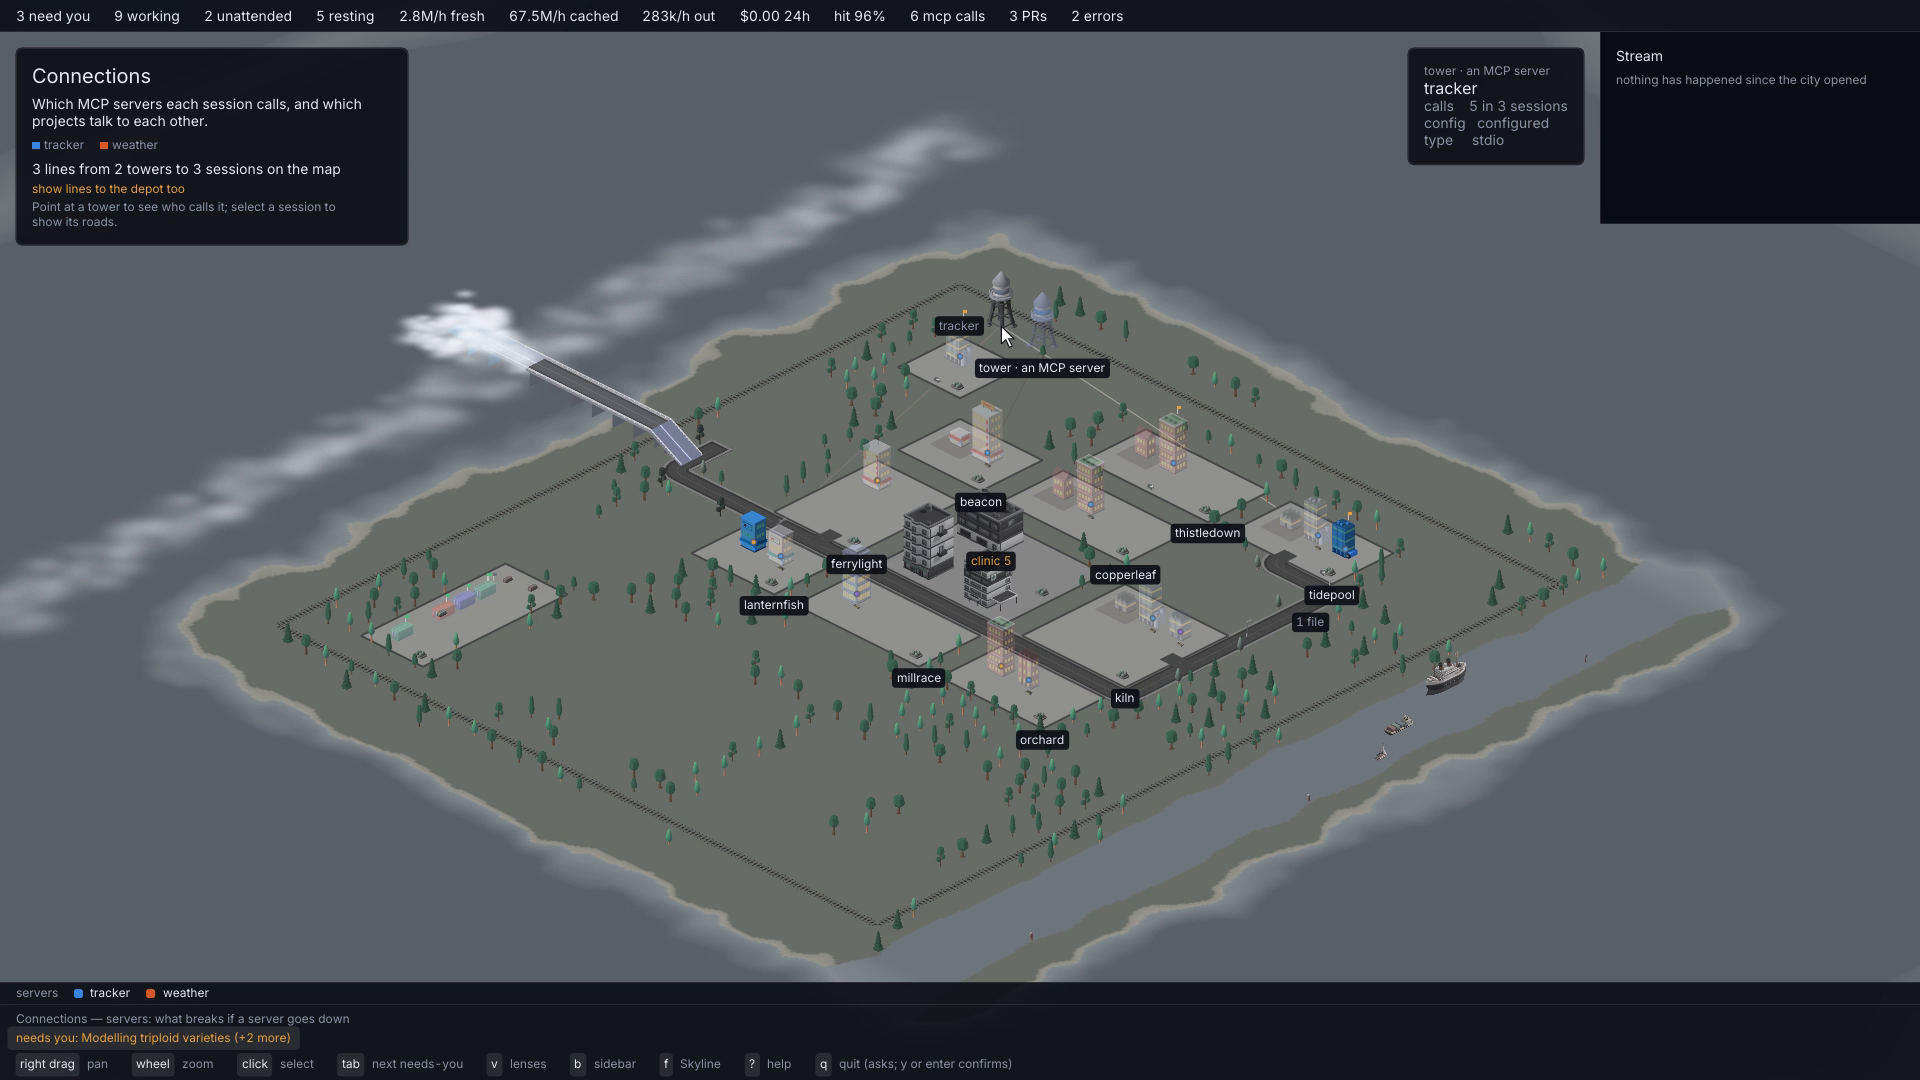
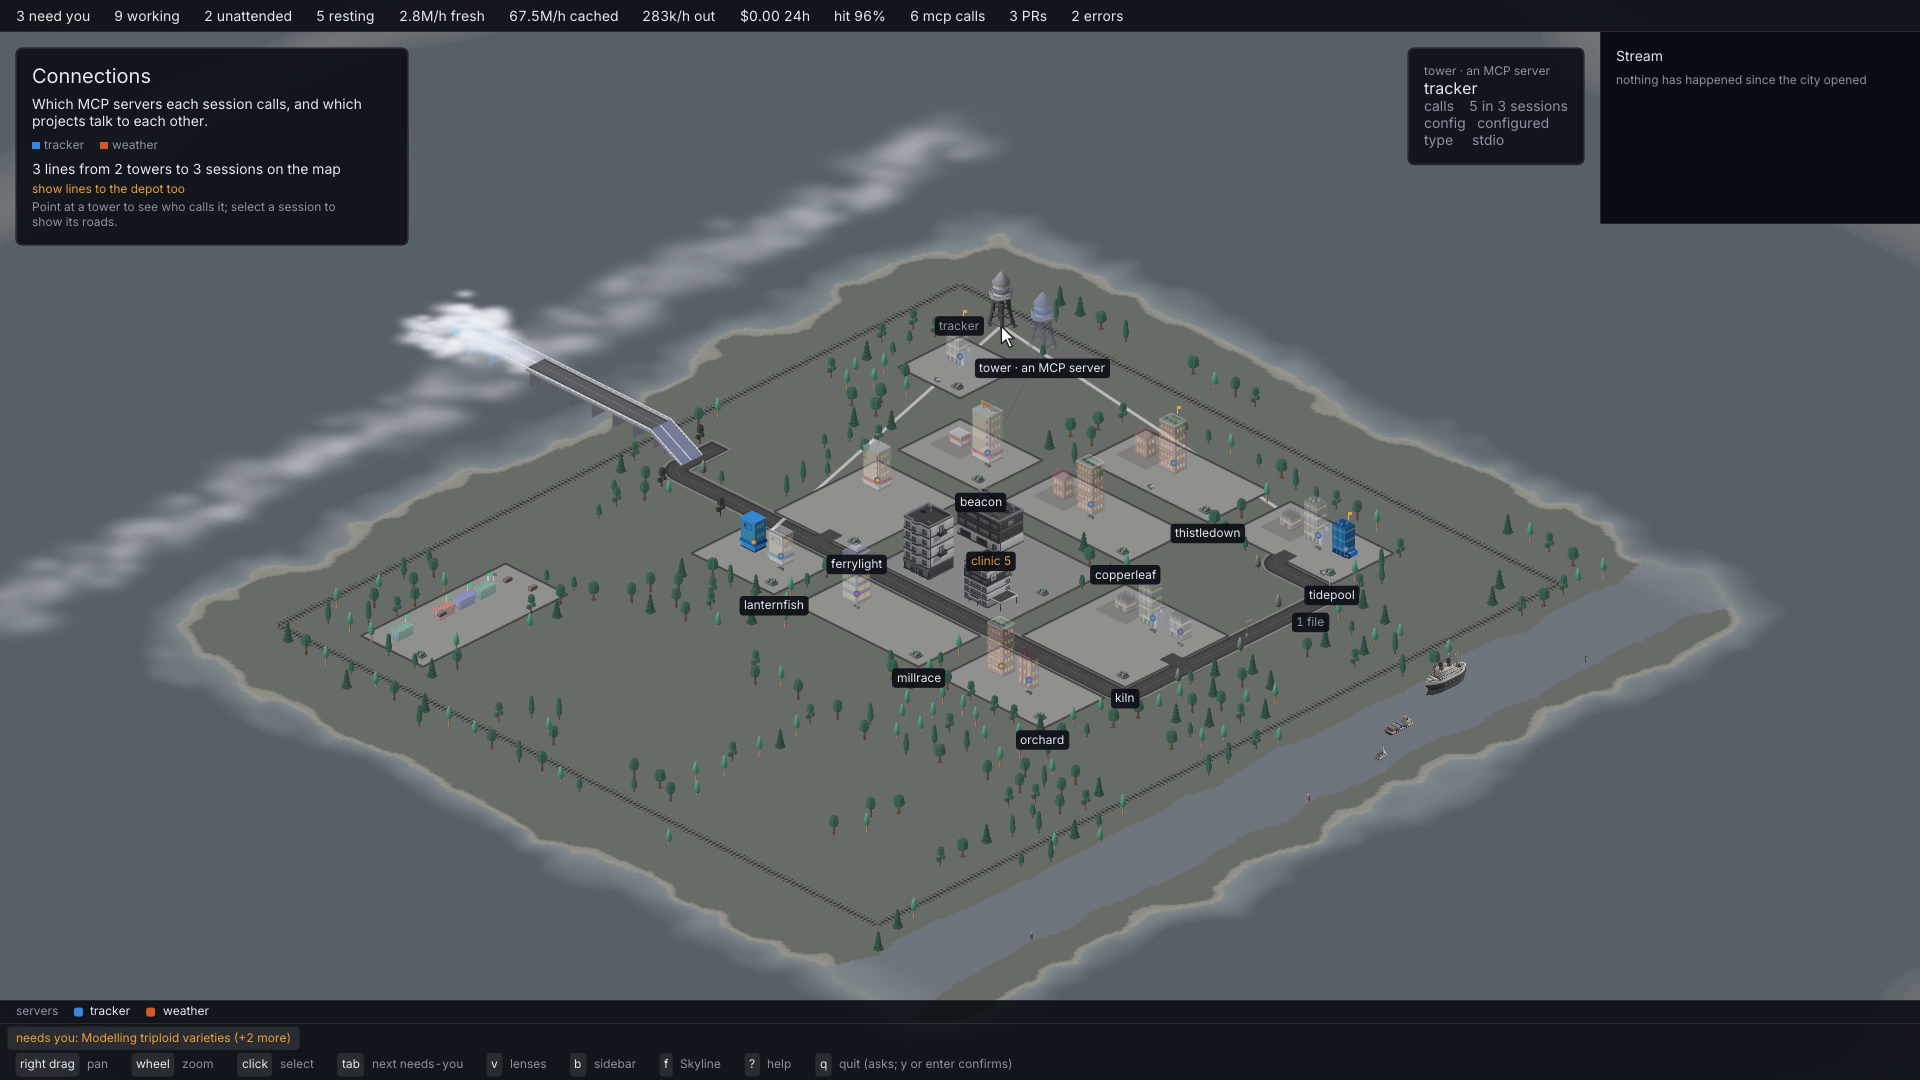
Item 347: a lit beam reads clearly at the fit zoom
Aria, on the frames: "Pass words, brighten lines". The pointed-at
tower's lines were too thin and faint to pick out from the faded ones.
A lit beam is now drawn over in an opaque white four world units wide,
never under three pixels on screen however far out the camera is; the
faded beams are as they were. beamLook returns the stroke, and
TestBeamLook pins it. The two frames are refilmed with it.

Claude-Session: https://claude.ai/code/session_01Nkqib3SnApLo9YagmfTzGy

Changed region(s): [[0.0, 0.8861, 1.0, 0.9472]]

diff --git a/pkg/render/beamlook_test.go b/pkg/render/beamlook_test.go
@@ -29,22 +29,23 @@ func TestBeamLook(t *testing.T) {
 	base := color.NRGBA{0x10, 0x20, 0x30, 0xff}
 	alpha := float64(0xff) * recededAlpha
 	faded := color.NRGBA{0x10, 0x20, 0x30, uint8(alpha)}
+	none := beamStroke{}
 
 	t.Run("when the highlight is up on a tower", func(t *testing.T) {
 		gc.scene.SetHover(city.Hit{Tower: files.Tower})
 		lit := gc.scene.Highlight()
 		require.True(t, lit.Active)
 
-		t.Run("its beam should draw in the highlight colour", func(t *testing.T) {
-			col, highlighted := beamLook(lit, city.Hit{}, files, base)
+		t.Run("its beam should keep its colour and draw the lit line over it", func(t *testing.T) {
+			col, stroke := beamLook(lit, city.Hit{}, files, base)
 			assert.Equal(t, base, col)
-			assert.True(t, highlighted)
+			assert.Equal(t, litStroke, stroke)
 		})
 
-		t.Run("another tower's beam should draw at the faded alpha", func(t *testing.T) {
-			col, highlighted := beamLook(lit, city.Hit{}, search, base)
+		t.Run("another tower's beam should draw at the faded alpha, with no line over it", func(t *testing.T) {
+			col, stroke := beamLook(lit, city.Hit{}, search, base)
 			assert.Equal(t, faded, col)
-			assert.False(t, highlighted)
+			assert.Equal(t, none, stroke)
 		})
 	})
 
@@ -53,16 +54,16 @@ func TestBeamLook(t *testing.T) {
 		lit := gc.scene.Highlight()
 		require.False(t, lit.Active)
 
-		t.Run("that beam should draw in the highlight colour", func(t *testing.T) {
-			col, highlighted := beamLook(lit, city.Hit{Beam: &files}, files, base)
+		t.Run("that beam should draw the lit line over it", func(t *testing.T) {
+			col, stroke := beamLook(lit, city.Hit{Beam: &files}, files, base)
 			assert.Equal(t, base, col)
-			assert.True(t, highlighted)
+			assert.Equal(t, litStroke, stroke)
 		})
 
 		t.Run("the other beams should keep their colour", func(t *testing.T) {
-			col, highlighted := beamLook(lit, city.Hit{Beam: &files}, search, base)
+			col, stroke := beamLook(lit, city.Hit{Beam: &files}, search, base)
 			assert.Equal(t, base, col)
-			assert.False(t, highlighted)
+			assert.Equal(t, none, stroke)
 		})
 	})
 
@@ -72,9 +73,25 @@ func TestBeamLook(t *testing.T) {
 		require.True(t, lit.RecedesGround())
 
 		t.Run("no beam should be faded here, since the fader fades everything at once", func(t *testing.T) {
-			col, highlighted := beamLook(lit, city.Hit{}, search, base)
+			col, stroke := beamLook(lit, city.Hit{}, search, base)
 			assert.Equal(t, base, col)
-			assert.False(t, highlighted)
+			assert.Equal(t, none, stroke)
+		})
+	})
+
+	// Aria, on the first frame: the lit lines were too thin and faint to
+	// pick out from the faded ones at the fit zoom.
+	t.Run("when a lit beam is drawn", func(t *testing.T) {
+		t.Run("its line should be wider than the pointed-at line used to be", func(t *testing.T) {
+			assert.Greater(t, litStroke.Width, float32(2))
+		})
+
+		t.Run("its line should be brighter than the highlight colour", func(t *testing.T) {
+			assert.Greater(t, litStroke.Col.A, colorHighlight.A)
+		})
+
+		t.Run("its line should keep a width on screen at any zoom", func(t *testing.T) {
+			assert.GreaterOrEqual(t, float64(litBeamMinPx), 3.0)
 		})
 	})
 }

diff --git a/pkg/render/game.go b/pkg/render/game.go
@@ -1427,32 +1427,55 @@ func (g *Game) beams(screen *ebiten.Image, c *city.City, cam *city.Camera, hover
 		if t := g.scene.BeamTint(beam, beams); t.Known {
 			col = ui.Sequential.At(t.Value)
 		}
-		col, highlighted := beamLook(g.lit, hover, beam, col)
+		col, stroke := beamLook(g.lit, hover, beam, col)
 		g.line(screen, cam, beam.From, beam.To, lineWidth(float64(beam.Calls)*20_000, 1, 3), col)
-		if highlighted {
-			g.line(screen, cam, beam.From, beam.To, 2, colorHighlight)
+		if stroke.Width > 0 {
+			a, b := cam.WorldToScreen(beam.From), cam.WorldToScreen(beam.To)
+			g.paint.Line(screen, a.X, a.Y, b.X, b.Y, max(float64(stroke.Width)*cam.Zoom, litBeamMinPx), stroke.Col)
 		}
 	}
 }
 
+// A lit beam has to read against the faded ones at the fit zoom, where
+// Aria judged the first frame's too thin and faint to pick out (item
+// 347): it is drawn over in an opaque white wider than the pointed-at
+// line used to be, and never under litBeamMinPx on screen however far
+// out the camera is.
+const (
+	litBeamWidth = 4
+	litBeamMinPx = 3
+)
+
+var colorBeamLit = color.NRGBA{0xff, 0xff, 0xff, 0xf0}
+
+// beamStroke is the line drawn over a lit beam: its width in world
+// units, scaled by the zoom and floored on screen, and its colour. A
+// width of 0 is no line.
+type beamStroke struct {
+	Width float32
+	Col   color.NRGBA
+}
+
+var litStroke = beamStroke{Width: litBeamWidth, Col: colorBeamLit}
+
 // beamLook is how a beam draws under the pointer (item 347): the colour
-// to draw it in, and whether the highlight line goes over it. A beam
-// under the pointer is highlighted on its own; while the contextual
-// highlight is up, the beams in it are highlighted and the rest fade as
-// the ground does. A car's highlight fades everything at once through
-// the fader, so nothing is faded here twice.
-func beamLook(lit city.Highlight, hover city.Hit, beam city.Beam, col color.NRGBA) (color.NRGBA, bool) {
+// to draw it in, and the line drawn over it when it is lit. A beam
+// under the pointer is lit on its own; while the contextual highlight
+// is up, the beams in it are lit and the rest fade as the ground does.
+// A car's highlight fades everything at once through the fader, so
+// nothing is faded here twice.
+func beamLook(lit city.Highlight, hover city.Hit, beam city.Beam, col color.NRGBA) (color.NRGBA, beamStroke) {
 	if hover.Beam != nil && hover.Beam.Building == beam.Building && hover.Beam.Tower == beam.Tower {
-		return col, true
+		return col, litStroke
 	}
 	if !lit.Active || lit.RecedesGround() {
-		return col, false
+		return col, beamStroke{}
 	}
 	if lit.HasBeam(beam) {
-		return col, true
+		return col, litStroke
 	}
 	col.A = uint8(float64(col.A) * recededAlpha)
-	return col, false
+	return col, beamStroke{}
 }
 
 // districtLabelAt is where a district's name plate sits for this face.
